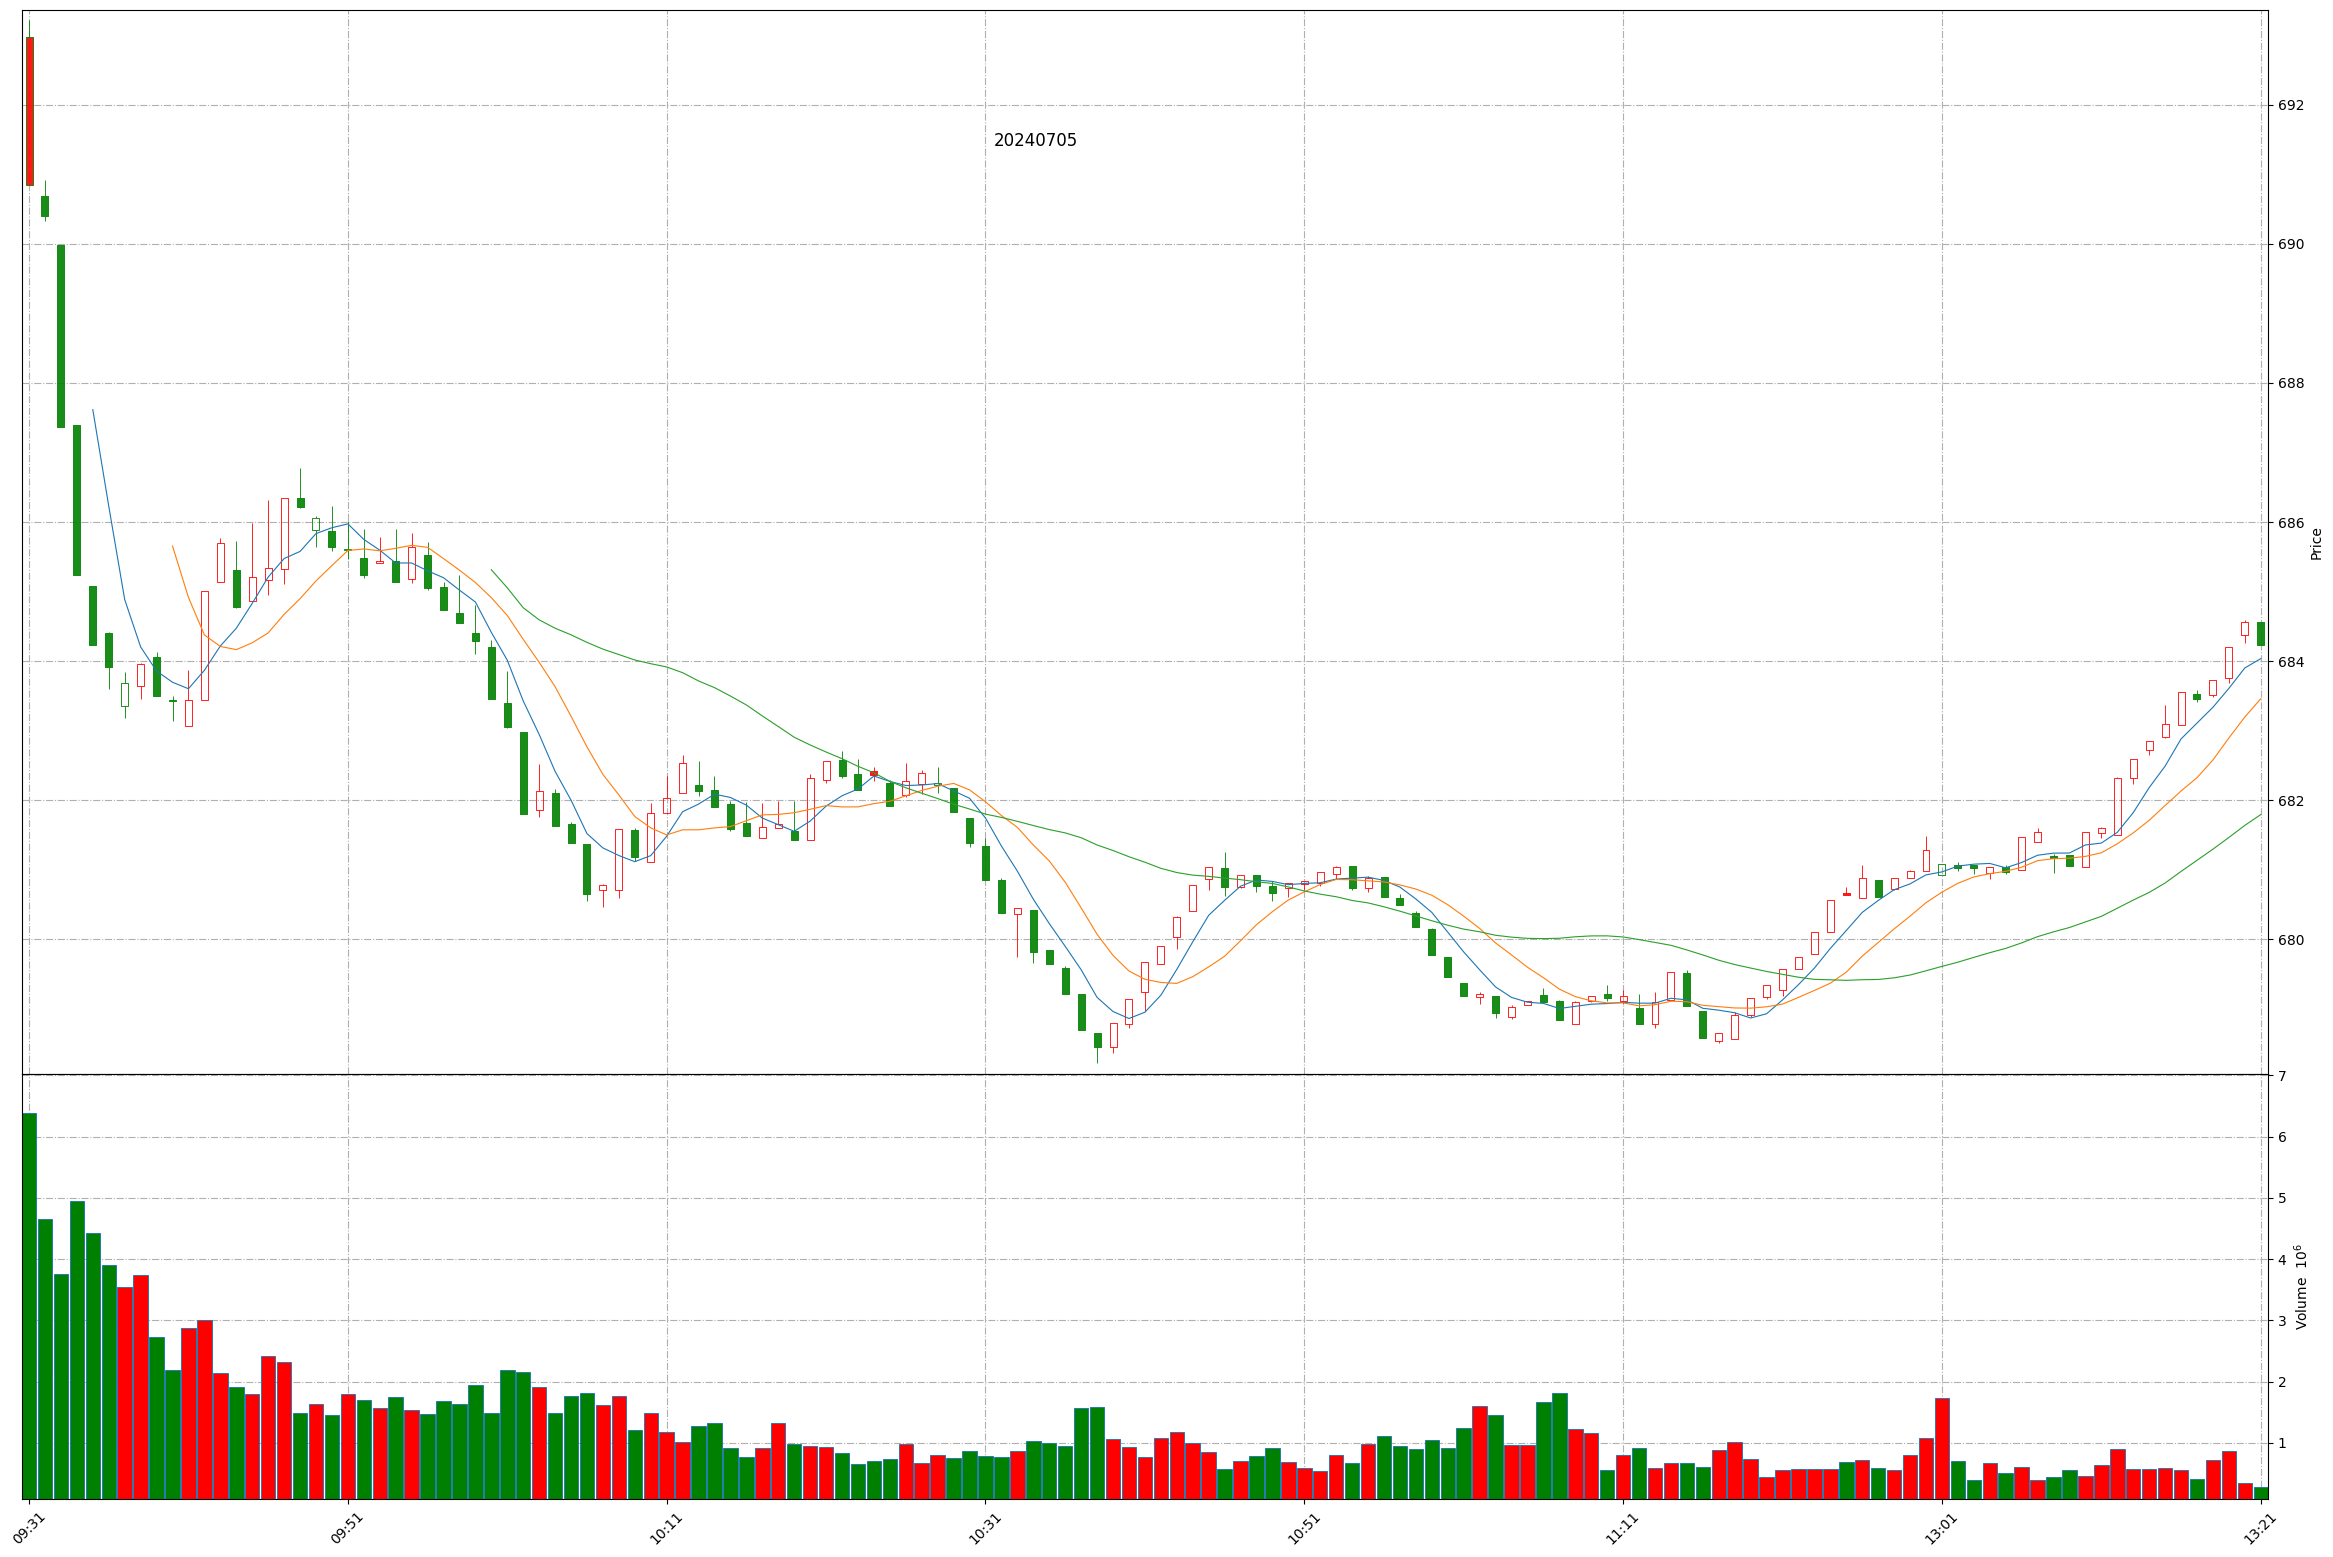
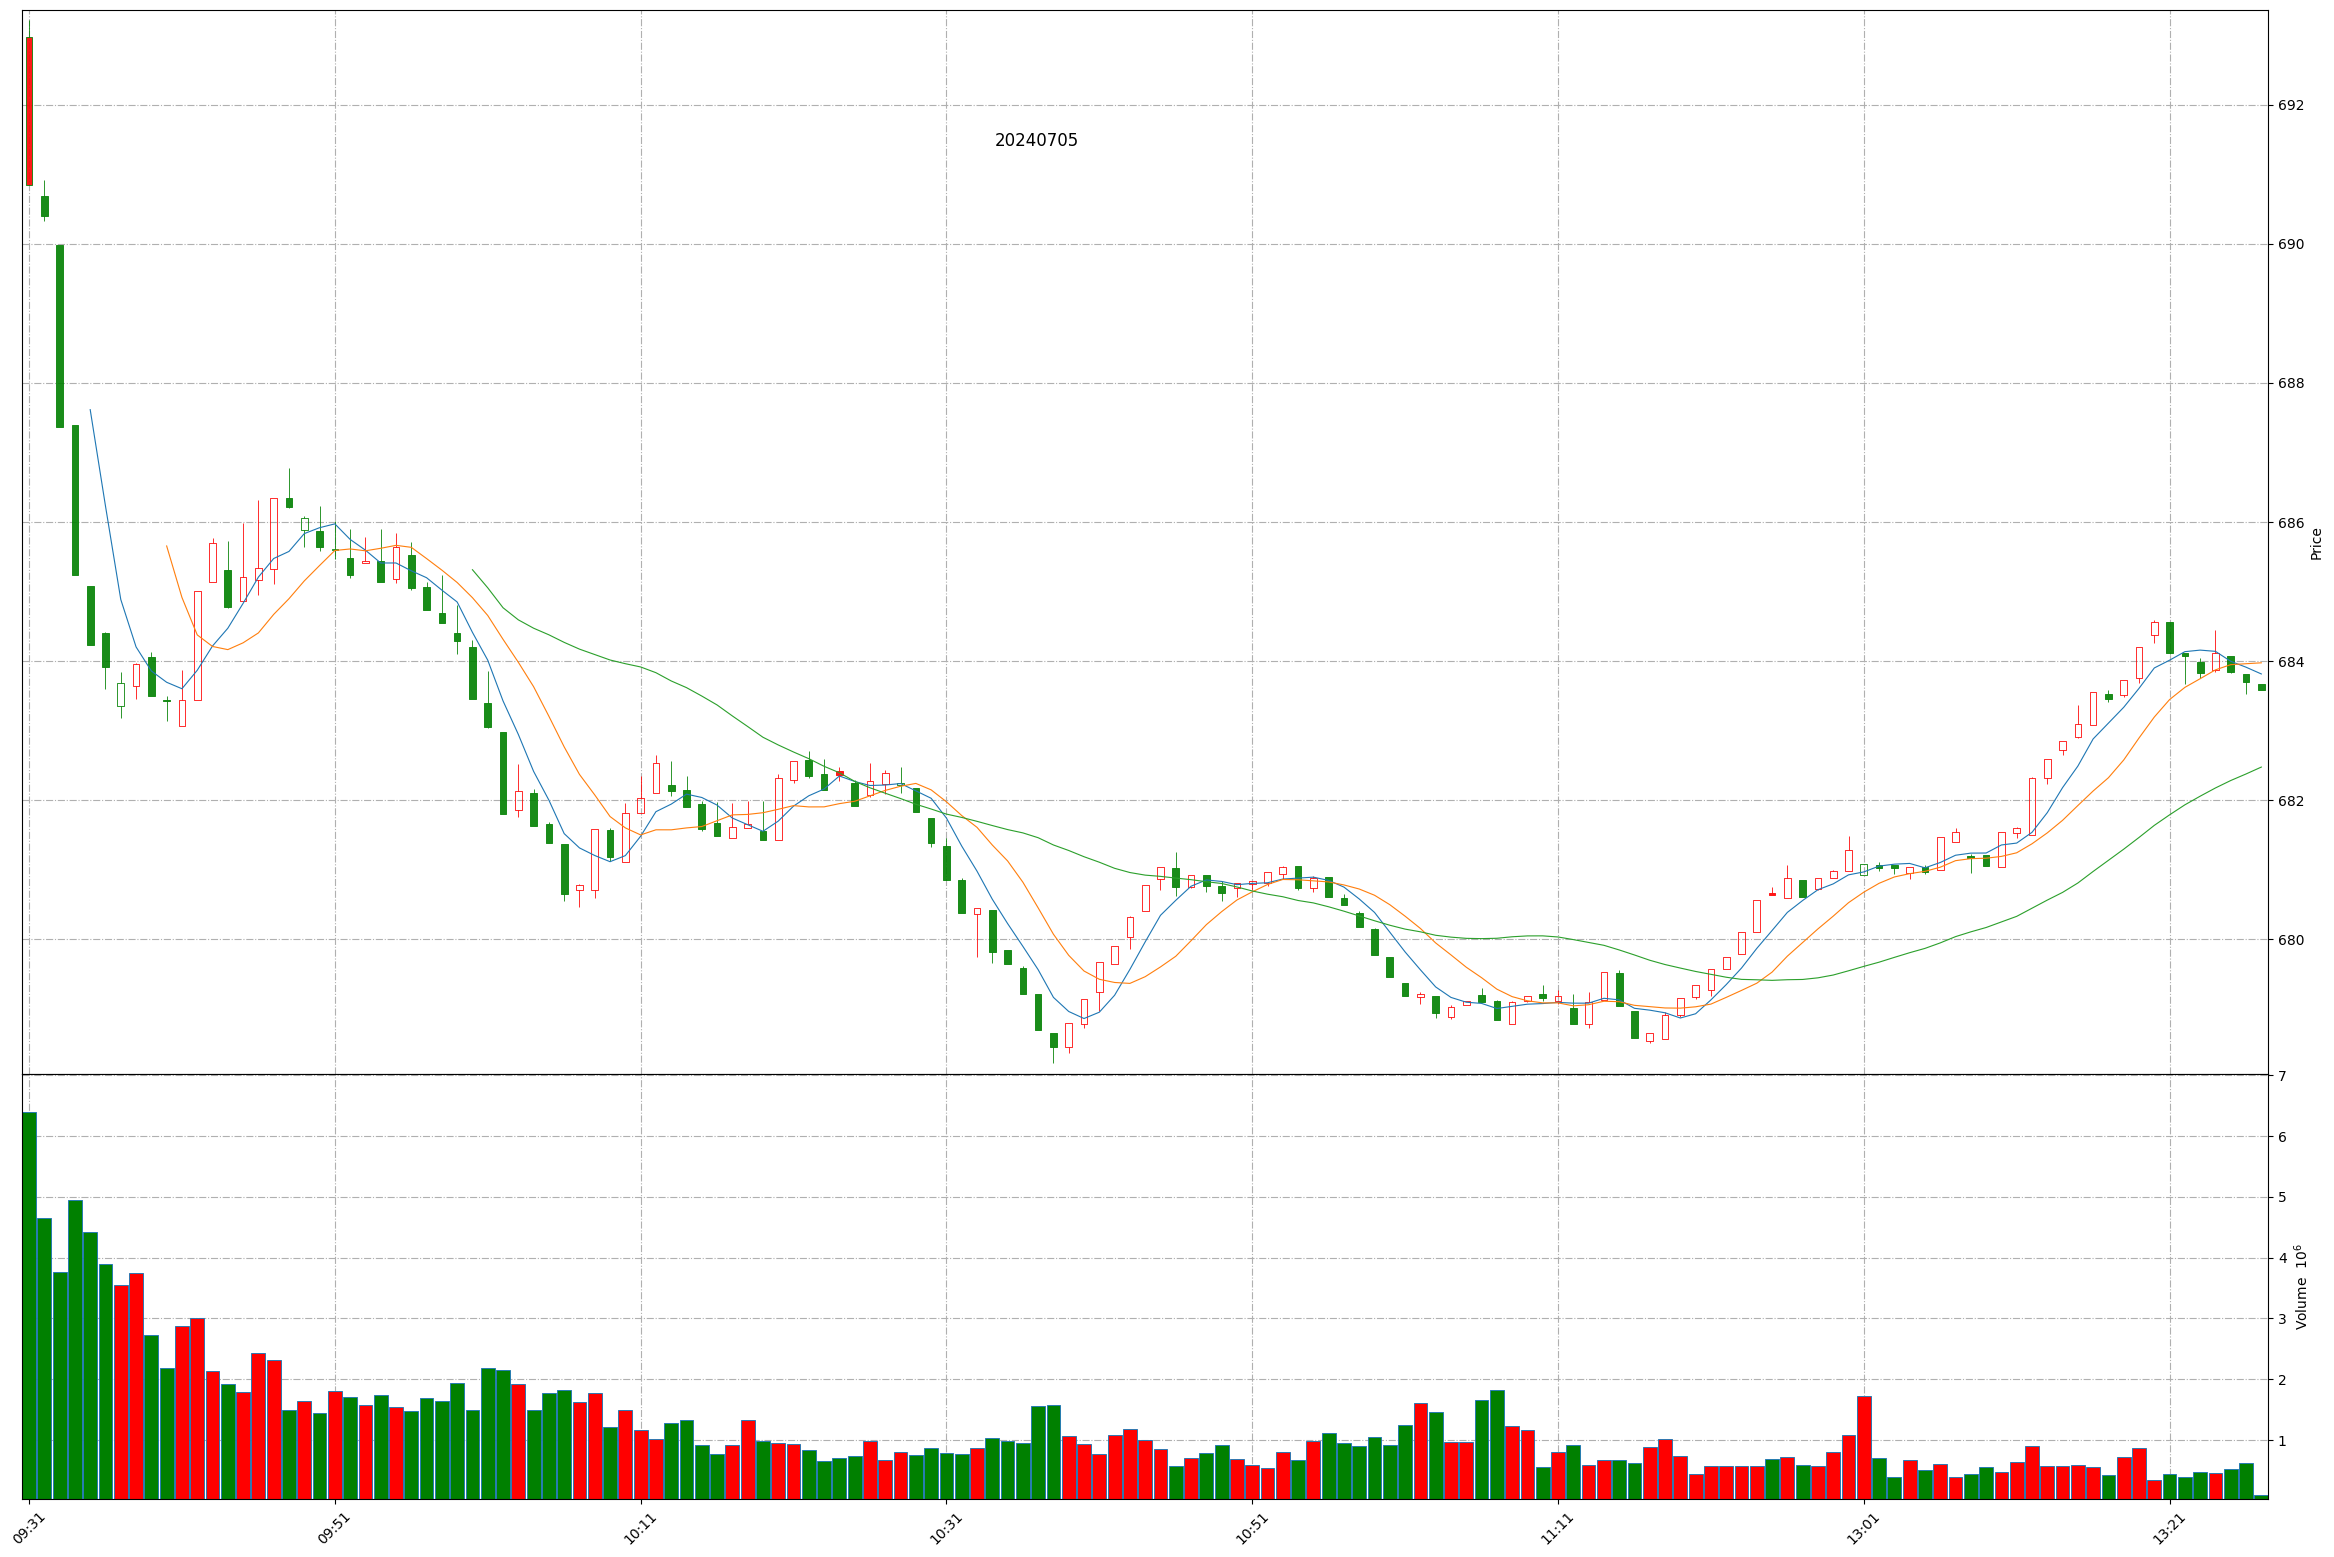
Github action update at 2024-07-05 13:26:25.

diff --git a/README.md b/README.md
@@ -1,11 +1,11 @@
 
 # Daily-A-share-market-quotes 每日 A 股指数（5min 更新）- 20240705
 
-### 上证指数 20240705 13:20
+### 上证指数 20240705 13:26
 ![](./fig/2024/7/20240705-sh000001.png)
 
-### 深证成指 20240705 13:20
+### 深证成指 20240705 13:26
 ![](./fig/2024/7/20240705-sz399001.png)
 
-### 北证50 20240705 13:20
+### 北证50 20240705 13:26
 ![](./fig/2024/7/20240705-bj899050.png)
